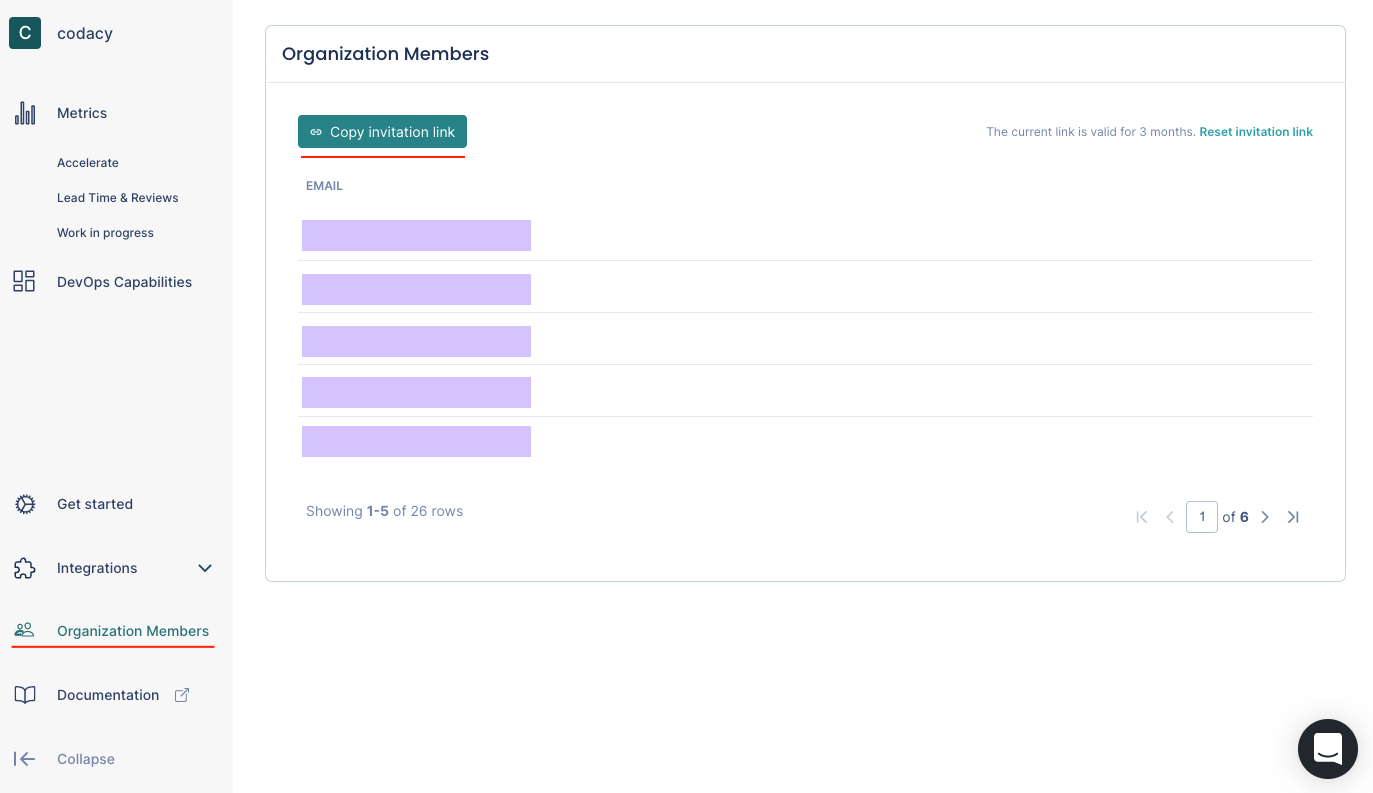
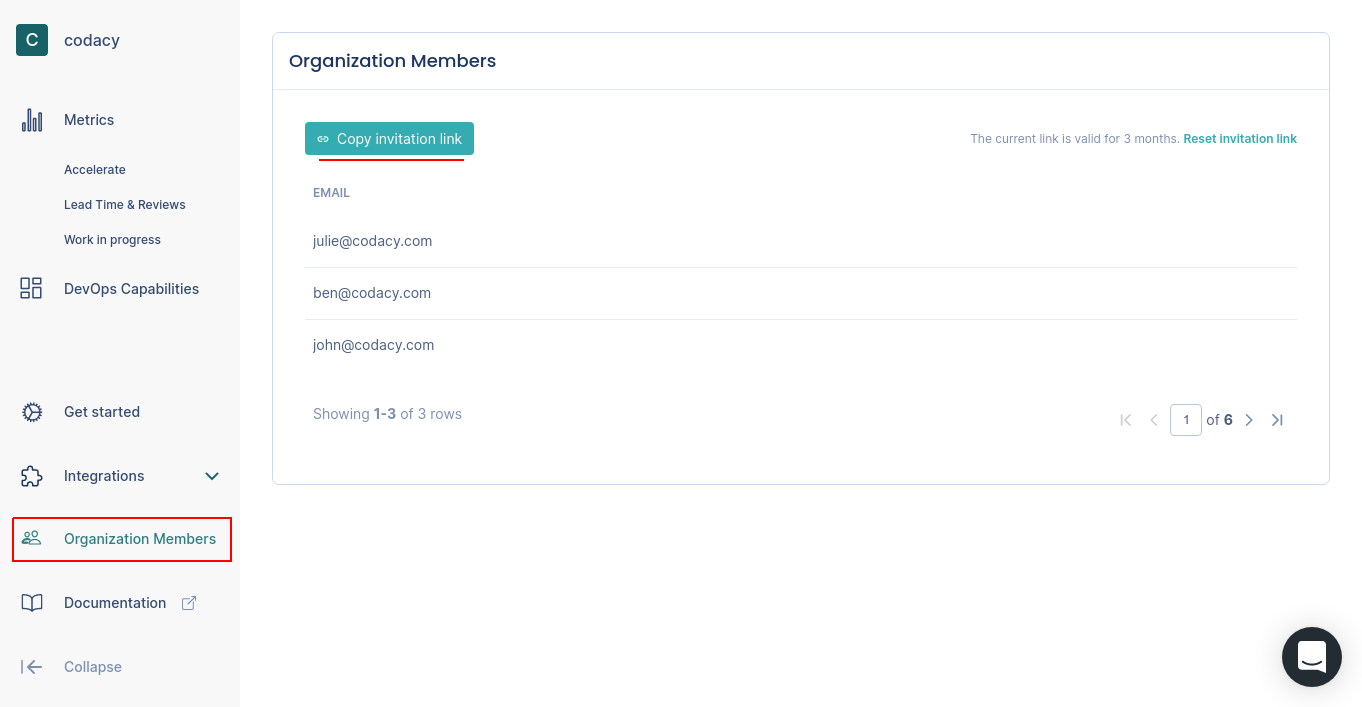
clean: Edit "Sharing access with teammates" (#63)
* clean: Edit "Sharing access with teammates"

* clean: Improve screenshot

diff --git a/docs/index.md b/docs/index.md
@@ -20,10 +20,12 @@ To add more organizations, click the name of the current organization on the top
 
 ## Sharing access with teammates
 
-To bring more visibility to Pulse's metrics, you can share Pulse's dashboards with your teammates. For that, copy the link in the **Organization members** page and send it to your teammates. (A convenient way is to share it in your team's chat and pinning it.)
+Share the Pulse dashboards with your teammates to bring more visibility to the metrics.
+
+To do this, copy the link on the **Organization members** page and share it with your teammates. A convenient way to do this is to share and pin the link on your team's chat.
 
 ![Inviting teammates to Pulse](images/inviting-members.png)
 
-By doing so, the people you invite will not be required to perform any integration, and after signing up, will immediately have access to all dashboards.
+By doing this, the people you invite will have access to all dashboards immediately after signing up without needing to perform any integration.
 
-The link will remain valid for 3 months and can be refreshed at any moment.
+The link is valid for 3 months, but you can refresh it at any moment.
